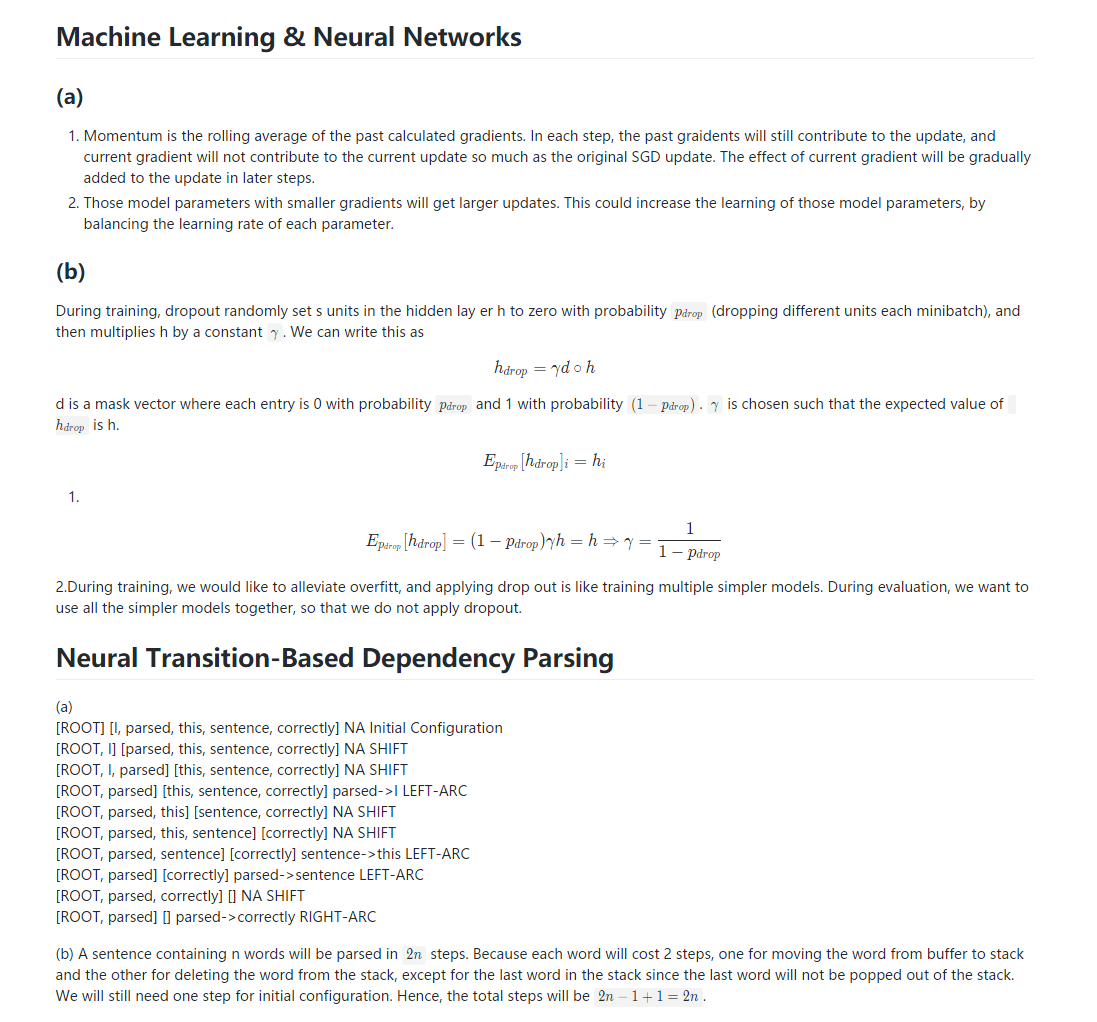
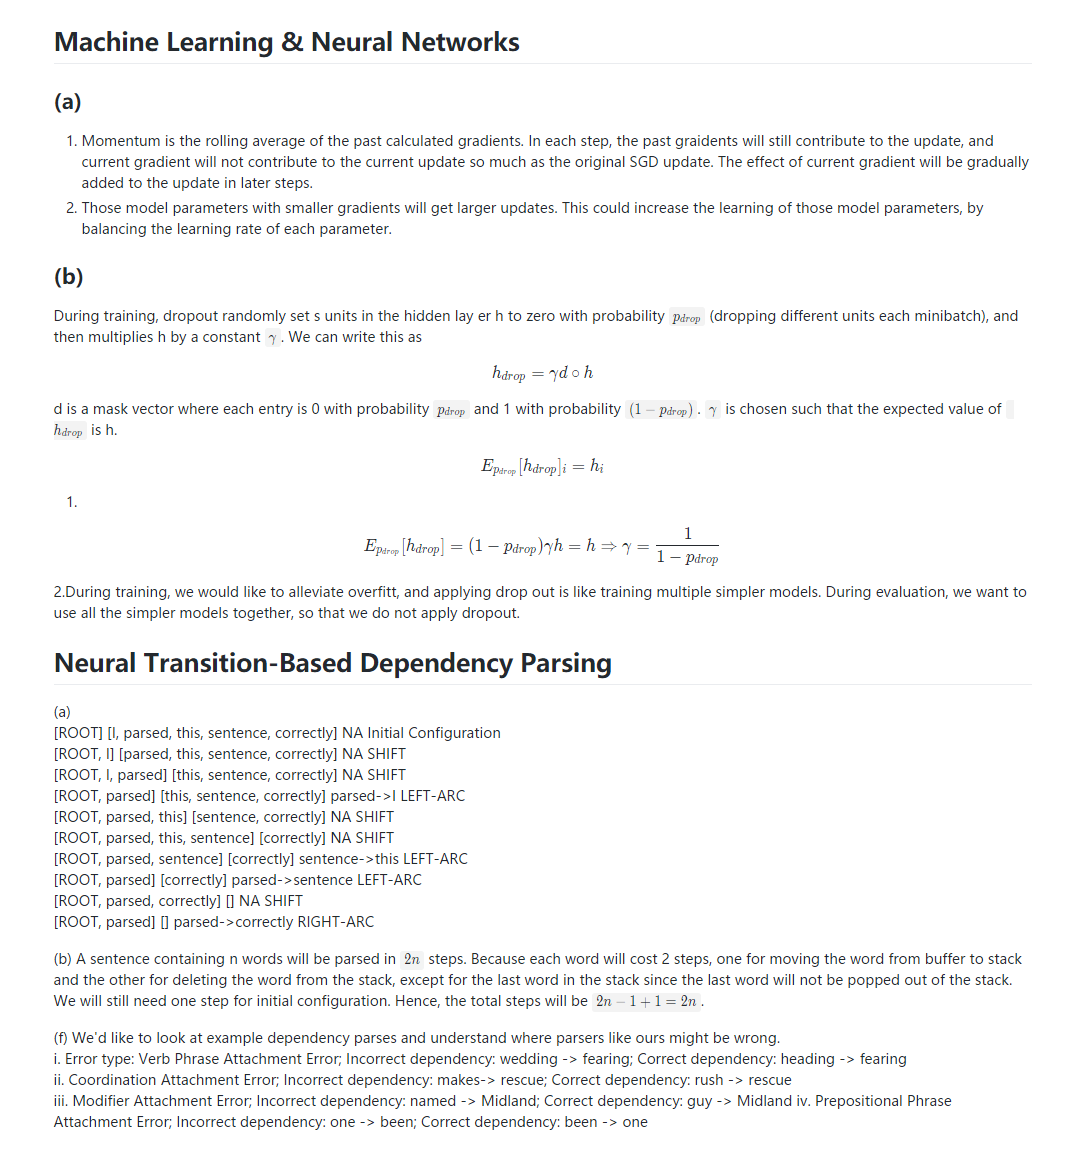
update a3

Changed region(s): [[0.0304, 0.0303, 0.942, 1.0], [0.6685, 0.3943, 0.9116, 0.4247], [0.6077, 0.3943, 0.6381, 0.4247]]

diff --git a/assignments/a3/a3/run.py b/assignments/a3/a3/run.py
@@ -123,8 +123,8 @@ def train_for_epoch(parser, train_data, dev_data, optimizer, loss_func, batch_si
 
 if __name__ == "__main__":
     # Note: Set debug to False, when training on entire corpus
-    debug = True
-    # debug = False
+    #debug = True
+    debug = False
 
     #assert(torch.__version__ == "1.0.0"),  "Please install torch version 1.0.0"
 

diff --git a/assignments/a3/a3_writing.md b/assignments/a3/a3_writing.md
@@ -4,19 +4,19 @@
 2. Those model parameters with smaller gradients will get larger updates. This could increase the learning of those model parameters, by balancing the learning rate of each parameter.
 
 ### (b) 
-During training, dropout randomly set s units in the hidden lay er h to zero with probability `$p_{drop}$` (dropping different units each minibatch), and then multiplies h by a constant `$gamma$`. We can write this as
+During training, dropout randomly set s units in the hidden lay er h to zero with probability `$p_{drop}$` (dropping different units each minibatch), and then multiplies h by a constant `$\gamma$`. We can write this as
 ```math
-h_{drop} = gamma d circ h
+h_{drop} = \gamma d \circ h
 ```
-d is a mask vector where each entry is 0 with probability `$p_{drop}$` and 1 with probability  `$(1-p_{drop})$`. `$gamma$` is chosen such that the expected value of `$h_{drop}$` is h.
+d is a mask vector where each entry is 0 with probability `$p_{drop}$` and 1 with probability  `$(1-p_{drop})$`. `$\gamma$` is chosen such that the expected value of `$h_{drop}$` is h.
 ```math
 E_{p_{drop}}[h_{drop}]_i = h_i
 ```
 1. 
 ```math
-E_{p_{drop}}[h_{drop}] = (1-p_{drop})gamma h=h
-Rightarrow
-gamma = frac{1}{1-p_{drop}}
+E_{p_{drop}}[h_{drop}] = (1-p_{drop})\gamma h=h
+\Rightarrow
+\gamma = \frac{1}{1-p_{drop}}
 ```
 2.During training, we would like to alleviate overfitt, and applying drop out is like training multiple simpler models. During evaluation, we want to use all the simpler models together, so that we do not apply dropout.
 
@@ -26,13 +26,18 @@ gamma = frac{1}{1-p_{drop}}
 [ROOT] [I, parsed, this, sentence, correctly]   NA  Initial Configuration  
 [ROOT, I] [parsed, this, sentence, correctly]    NA  SHIFT  
 [ROOT, I, parsed] [this, sentence, correctly]    NA  SHIFT  
-[ROOT, parsed] [this, sentence, correctly]  parsed-I LEFT-ARC   
+[ROOT, parsed] [this, sentence, correctly]  parsed->I LEFT-ARC   
 [ROOT, parsed, this] [sentence, correctly]    NA  SHIFT  
 [ROOT, parsed, this, sentence] [correctly]    NA  SHIFT  
-[ROOT, parsed, sentence] [correctly] sentence-this LEFT-ARC  
-[ROOT, parsed] [correctly] parsed-sentence LEFT-ARC  
+[ROOT, parsed, sentence] [correctly] sentence->this LEFT-ARC  
+[ROOT, parsed] [correctly] parsed->sentence LEFT-ARC  
 [ROOT, parsed, correctly] [] NA SHIFT  
-[ROOT, parsed] [] parsed-correctly RIGHT-ARC  
+[ROOT, parsed] [] parsed->correctly RIGHT-ARC  
 
 (b) A sentence containing n words will be parsed in `$2n$` steps. Because each word will cost 2 steps, one for moving the word from buffer to stack and the other for deleting the word from the stack, except for the last word in the stack since the last word will not be popped out of the stack. We will still need one step for initial configuration. Hence, the total steps will be `$2n-1+1=2n$`.
 
+(f) We'd like to look at example dependency parses and understand where parsers like ours might be wrong.  
+i. Error type: Verb Phrase Attachment Error; Incorrect dependency: wedding -> fearing; Correct dependency: heading -> fearing  
+ii. Coordination Attachment Error; Incorrect dependency: makes-> rescue; Correct dependency: rush -> rescue  
+iii. Modifier Attachment Error; Incorrect dependency: named -> Midland; Correct dependency: guy -> Midland
+iv. Prepositional Phrase Attachment Error; Incorrect dependency: one -> been; Correct dependency: been -> one
